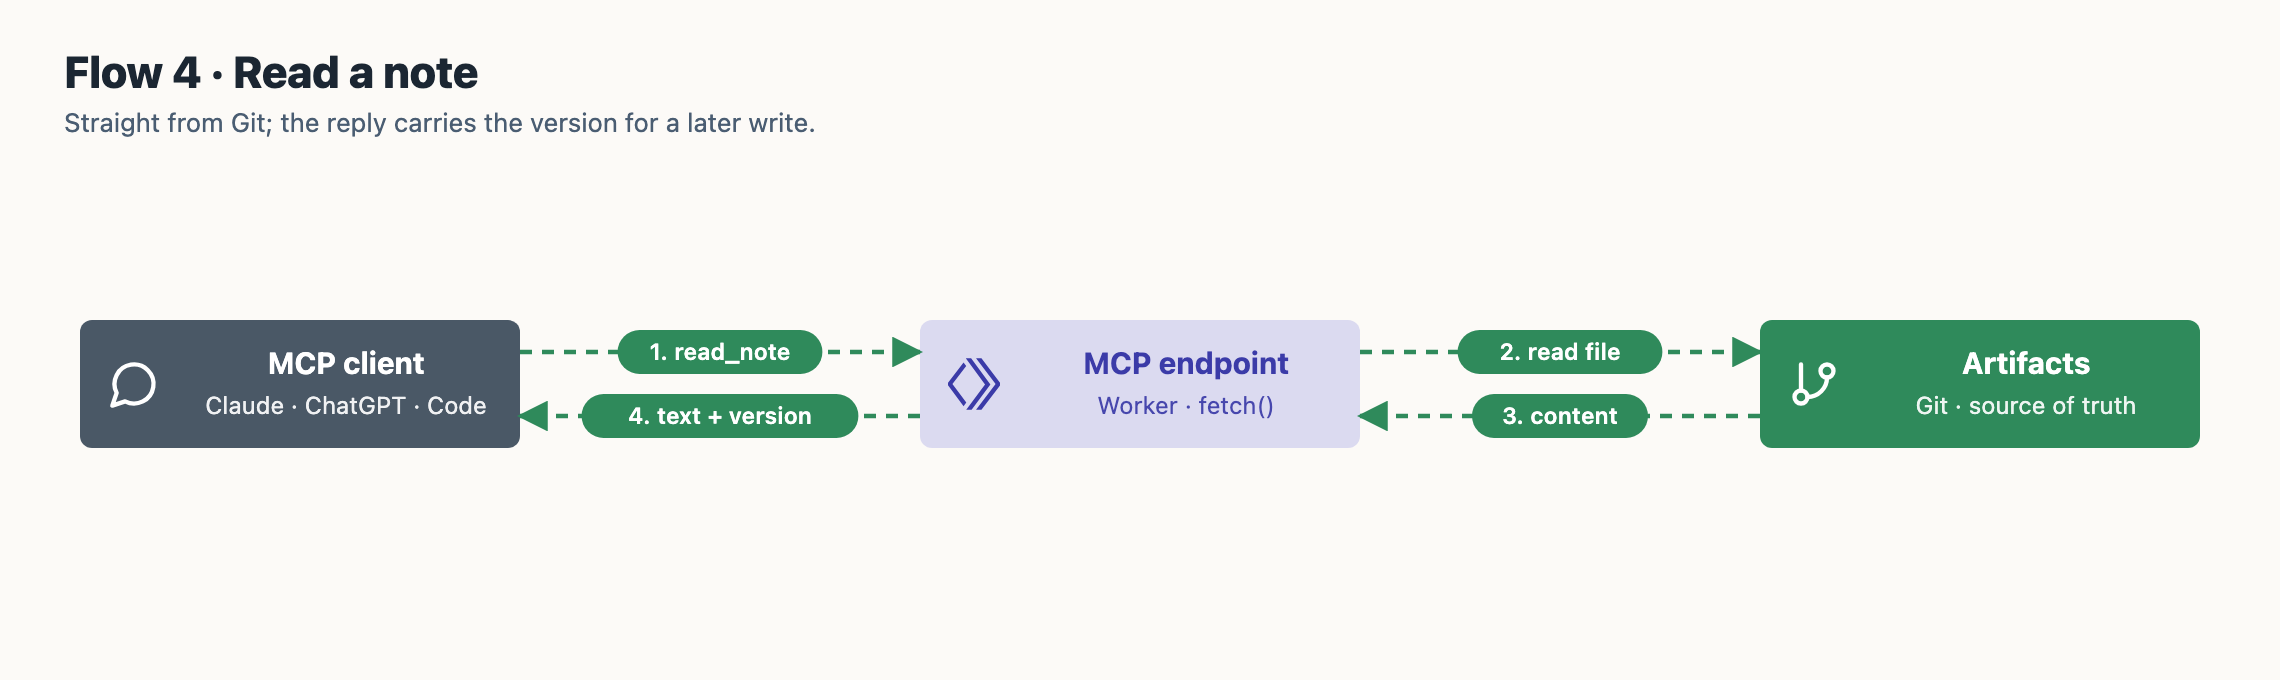
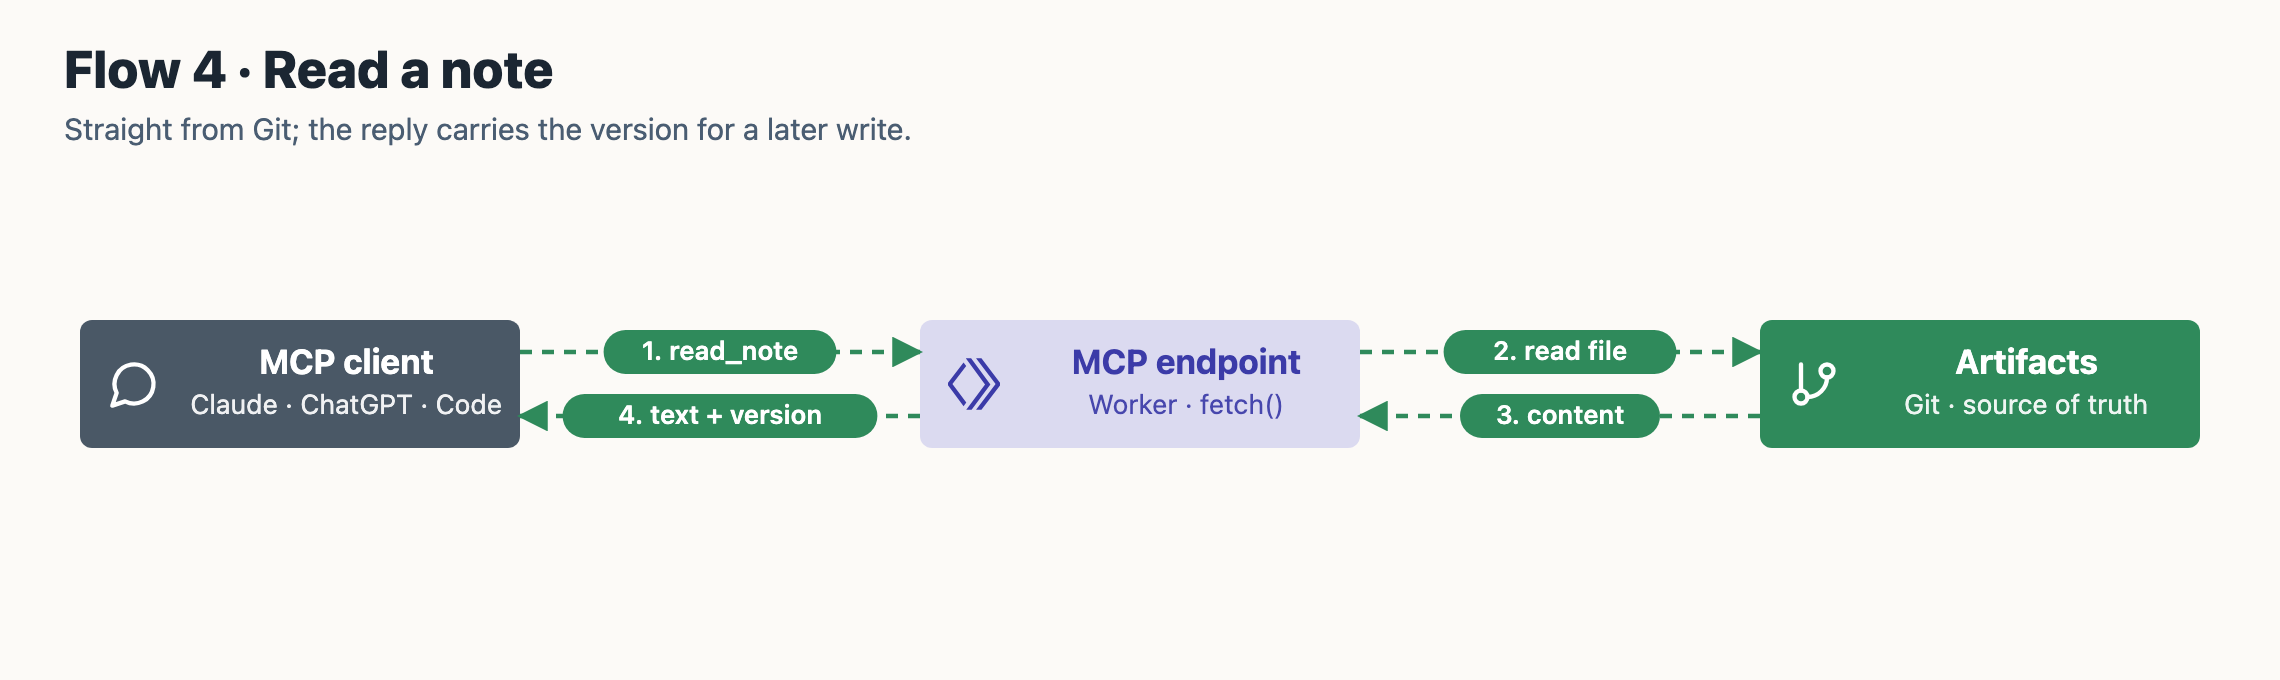
Architecture maps: larger text; each flow map shown at the same scale (#77)
Claude-Session: https://claude.ai/code/session_0171UdtAm1pRxwuhTFhKDhrM

diff --git a/docs/architecture/draw.py b/docs/architecture/draw.py
@@ -83,7 +83,7 @@ def arrow(points, label=None, at=0.5, both=False, flow=None, dy=0):
         segs = list(zip(points, points[1:]))
         (x1, y1), (x2, y2) = max(segs, key=lambda s: abs(s[1][0]-s[0][0]) + abs(s[1][1]-s[0][1]))
         lx, ly = x1 + (x2 - x1) * at, y1 + (y2 - y1) * at + dy  # dy: lift the pill off a short arrow
-        w = 7.2 * len(label) + 16
+        w = 8.2 * len(label) + 18
         t += f'<rect x="{lx - w/2}" y="{ly - 11}" width="{w}" height="22" rx="11" fill="{FLOW[flow] if flow else NAVY}"/>'
         t += f'<text x="{lx}" y="{ly + 4}" text-anchor="middle" class="p">{html.escape(label)}</text>'
     return t
@@ -94,12 +94,12 @@ def svg(width, height, title, subtitle, body):
 <marker id="m" viewBox="0 0 10 10" refX="9" refY="5" markerWidth="8" markerHeight="8" orient="auto-start-reverse"><path d="M0,0 L10,5 L0,10 z" fill="{LINE}"/></marker>
 {FLOW_MARKERS}
 <marker id="ms" viewBox="0 0 10 10" refX="9" refY="5" markerWidth="8" markerHeight="8" orient="auto-start-reverse"><path d="M0,0 L10,5 L0,10 z" fill="{LINE}"/></marker>
-<style>.t{{fill:#fff;font-size:15px;font-weight:700}}.s{{fill:#fff;font-size:12px;opacity:.92}}.c{{fill:{MUTED};font-size:12px}}
-.a{{fill:none;stroke:{LINE};stroke-width:1.6;stroke-dasharray:6 5}}.p{{fill:#fff;font-size:11.5px;font-weight:600}}
-.h{{fill:{NAVY};font-size:22px;font-weight:800}}.hs{{fill:{MUTED};font-size:13px}}.g{{fill:none;stroke:#E6D5C1;stroke-width:1.5;stroke-dasharray:2 4}}.gl{{fill:#8C6A43;font-size:12px;font-weight:600}}.lg{{fill:{NAVY};font-size:13px;font-weight:600}}.ft{{font-size:12px;font-weight:700;letter-spacing:.06em}}</style>
+<style>.t{{fill:#fff;font-size:17px;font-weight:700}}.s{{fill:#fff;font-size:13.5px;opacity:.92}}.c{{fill:{MUTED};font-size:14px}}
+.a{{fill:none;stroke:{LINE};stroke-width:1.6;stroke-dasharray:6 5}}.p{{fill:#fff;font-size:13px;font-weight:600}}
+.h{{fill:{NAVY};font-size:26px;font-weight:800}}.hs{{fill:{MUTED};font-size:15px}}.g{{fill:none;stroke:#E6D5C1;stroke-width:1.5;stroke-dasharray:2 4}}.gl{{fill:#8C6A43;font-size:13.5px;font-weight:600}}.lg{{fill:{NAVY};font-size:13px;font-weight:600}}.ft{{font-size:12px;font-weight:700;letter-spacing:.06em}}</style>
 </defs>
 <rect width="100%" height="100%" fill="{BG}"/>
-<text x="32" y="44" class="h">{html.escape(title)}</text><text x="32" y="66" class="hs">{html.escape(subtitle)}</text>
+<text x="32" y="44" class="h">{html.escape(title)}</text><text x="32" y="70" class="hs">{html.escape(subtitle)}</text>
 {body}
 </svg>'''
 
@@ -134,7 +134,7 @@ v2.append('<rect x="376" y="80" width="1404" height="680" rx="10" class="g"/>' +
 v2.append('<rect x="24" y="92" width="252" height="128" rx="10" class="g"/><text x="38" y="112" class="gl">SIGN-IN PROVIDER</text>')
 v2.append(box(A, 124, "GitHub", "identity only", "slate", "owner's account, no scopes", icons=("github",)))
 v2.append('<rect x="24" y="236" width="252" height="236" rx="10" class="g"/><text x="38" y="256" class="gl">MCP CLIENTS</text>')
-v2.append(box(A, 260, "Claude · ChatGPT", "MCP clients", "slate", icons=("claude", "chat")) + devices(A + 110, 342, ("monitor", "smartphone"), "Mac (web) and phone"))
+v2.append(box(A, 260, "Claude · ChatGPT", "MCP clients", "slate", icons=("claude",)) + devices(A + 110, 342, ("monitor", "smartphone"), "Mac (web) and phone"))
 v2.append(box(A, 376, "Claude Code", "MCP client", "slate", icons=("terminal",)) + devices(A + 110, 458, ("laptop",), "on the MacBook"))
 v2.append(box(X1, 110, "KV", "OAuth grants", "slate", icons=("key",)))
 # The Worker is one deployable: an area holding its four parts, all the same style.
@@ -143,7 +143,7 @@ v2.append('<rect x="410" y="232" width="626" height="272" rx="8" fill="#5B5BD6" 
           '<text x="424" y="496" class="gl" style="fill:#5B5BD6">WORKER</text>')
 # row 1: the write
 v2.append(box(X1, 250, "MCP endpoint", "OAuth · tools · admin", "indigo", icons=("workers",), kind="part"))
-v2.append(box(X2, 250, "RepoWriter", "Durable Object · single writer", "indigo", icons=("lock",), kind="part"))
+v2.append(box(X2, 250, "RepoWriter", "Durable Object · 1 writer", "indigo", icons=("lock",), kind="part"))
 v2.append(box(X3, 250, "Artifacts", "Git · source of truth", "green", icons=("branch",)))
 # row 2: indexing
 v2.append(box(X1, 410, "Reconcile", "Workflow · runs daily", "indigo", icons=("workflow",), kind="part"))

diff --git a/docs/architecture/draw_flows.py b/docs/architecture/draw_flows.py
@@ -17,7 +17,7 @@ save("1-sign-in", 1160, 460, "Flow 1 · Sign-in", "OAuth 2.1 with GitHub as the 
     client(40, 200), endpoint(460, 200),
     box(880, 80, "GitHub", "identity only", "slate", "user id == OWNER_GITHUB_ID?", icons=("github",)),
     box(880, 340, "KV", "OAuth grants", "slate", "token checked on every call", icons=("key",)),
-    arrow([(260, 210), (460, 210)], "1. register · authorize", flow="auth"),
+    arrow([(260, 210), (460, 210)], "1. register", flow="auth"),
     arrow([(570, 200), (570, 112), (880, 112)], "2. sign in", at=0.25, flow="auth"),
     arrow([(880, 132), (630, 132), (630, 200)], "3. callback", at=0.25, flow="auth"),
     arrow([(570, 264), (570, 372), (880, 372)], "4. store grant", flow="auth"),

diff --git a/ARCHITECTURE.md b/ARCHITECTURE.md
@@ -19,31 +19,31 @@
 
 ### 1. Sign-in
 
-<p align="center"><img src="docs/architecture/flows/1-sign-in.png" alt="Flow 1: Sign-in" width="760"></p>
+<p align="center"><img src="docs/architecture/flows/1-sign-in.png" alt="Flow 1: Sign-in" width="622"></p>
 
 ### 2. Write a note
 
-<p align="center"><img src="docs/architecture/flows/2-write.png" alt="Flow 2: Write a note" width="760"></p>
+<p align="center"><img src="docs/architecture/flows/2-write.png" alt="Flow 2: Write a note" width="836"></p>
 
 ### 3. Index in the background
 
-<p align="center"><img src="docs/architecture/flows/3-index.png" alt="Flow 3: Index in the background" width="760"></p>
+<p align="center"><img src="docs/architecture/flows/3-index.png" alt="Flow 3: Index in the background" width="879"></p>
 
 ### 4. Read a note
 
-<p align="center"><img src="docs/architecture/flows/4-read.png" alt="Flow 4: Read a note" width="760"></p>
+<p align="center"><img src="docs/architecture/flows/4-read.png" alt="Flow 4: Read a note" width="611"></p>
 
 ### 5. Search
 
-<p align="center"><img src="docs/architecture/flows/5-search.png" alt="Flow 5: Search" width="760"></p>
+<p align="center"><img src="docs/architecture/flows/5-search.png" alt="Flow 5: Search" width="836"></p>
 
 ### 6. Reconciliation
 
-<p align="center"><img src="docs/architecture/flows/6-reconcile.png" alt="Flow 6: Reconciliation" width="760"></p>
+<p align="center"><img src="docs/architecture/flows/6-reconcile.png" alt="Flow 6: Reconciliation" width="622"></p>
 
 ### 7. A job that keeps failing
 
-<p align="center"><img src="docs/architecture/flows/7-failure.png" alt="Flow 7: A job that keeps failing" width="760"></p>
+<p align="center"><img src="docs/architecture/flows/7-failure.png" alt="Flow 7: A job that keeps failing" width="836"></p>
 
 ## Repository
 

diff --git a/README.md b/README.md
@@ -59,31 +59,31 @@ In the plan note, change the deadline to Friday.
 
 ### 1. Sign-in
 
-<p align="center"><img src="docs/architecture/flows/1-sign-in.png" alt="Flow 1-sign-in" width="760"></p>
+<p align="center"><img src="docs/architecture/flows/1-sign-in.png" alt="Flow 1-sign-in" width="622"></p>
 
 ### 2. Write a note
 
-<p align="center"><img src="docs/architecture/flows/2-write.png" alt="Flow 2-write" width="760"></p>
+<p align="center"><img src="docs/architecture/flows/2-write.png" alt="Flow 2-write" width="836"></p>
 
 ### 3. Index in the background
 
-<p align="center"><img src="docs/architecture/flows/3-index.png" alt="Flow 3-index" width="760"></p>
+<p align="center"><img src="docs/architecture/flows/3-index.png" alt="Flow 3-index" width="879"></p>
 
 ### 4. Read a note
 
-<p align="center"><img src="docs/architecture/flows/4-read.png" alt="Flow 4-read" width="760"></p>
+<p align="center"><img src="docs/architecture/flows/4-read.png" alt="Flow 4-read" width="611"></p>
 
 ### 5. Search
 
-<p align="center"><img src="docs/architecture/flows/5-search.png" alt="Flow 5-search" width="760"></p>
+<p align="center"><img src="docs/architecture/flows/5-search.png" alt="Flow 5-search" width="836"></p>
 
 ### 6. Reconciliation
 
-<p align="center"><img src="docs/architecture/flows/6-reconcile.png" alt="Flow 6-reconcile" width="760"></p>
+<p align="center"><img src="docs/architecture/flows/6-reconcile.png" alt="Flow 6-reconcile" width="622"></p>
 
 ### 7. A job that keeps failing
 
-<p align="center"><img src="docs/architecture/flows/7-failure.png" alt="Flow 7-failure" width="760"></p>
+<p align="center"><img src="docs/architecture/flows/7-failure.png" alt="Flow 7-failure" width="836"></p>
 
 ## Links
 
